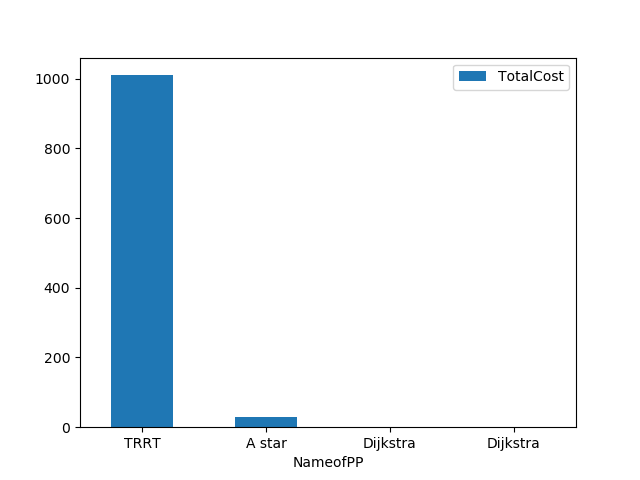
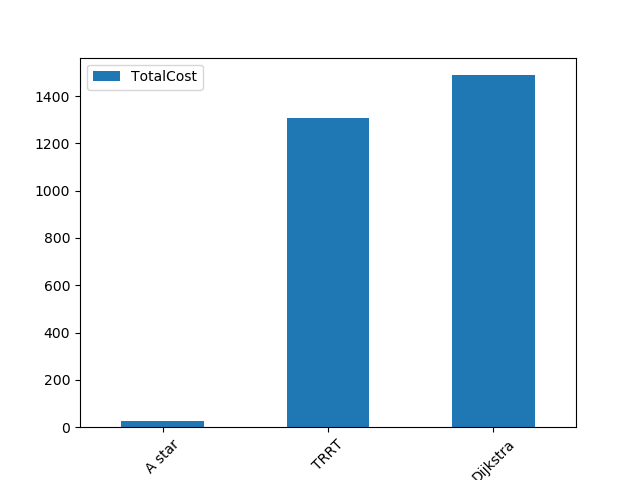
total sim time added for trrt and a* and level timer added for dijkstra

diff --git a/Assets/Scripts/WriteToCSVFile.cs b/Assets/Scripts/WriteToCSVFile.cs
@@ -42,7 +42,7 @@ public class WriteToCSVFile : MonoBehaviour
         if(!File.Exists(filename)) {
             TextWriter tw = new StreamWriter(filename, false);
             // with open("WriteToCSVFile.csv", "a", newline="") as file:
-            tw.WriteLine("NameofPP,TotalTime,TotalCost,TotalNodes");
+            tw.WriteLine("NameofPP,TotalTime,TotalCost,TotalNodes,TotalSimTime");
             tw.Close();
         }
     }
@@ -54,7 +54,7 @@ public class WriteToCSVFile : MonoBehaviour
         //     WriteCSV();
         // }
     }
-    public void WriteCSV(string nameofPP, float totalTime, float totalCost, int totalNodes)
+    public void WriteCSV(string nameofPP, float totalTime, float totalCost, int totalNodes, float totalSimTime)
     {
 
         Debug.Log("obj length" + myWritingtoSSList.obj.Length);
@@ -65,8 +65,9 @@ public class WriteToCSVFile : MonoBehaviour
         myWritingtoSSList.obj[objCount].totalTime=totalTime;
         myWritingtoSSList.obj[objCount].totalCost=totalCost;
         myWritingtoSSList.obj[objCount].totalNodes=totalNodes;
+        myWritingtoSSList.obj[objCount].totalSimTime=totalSimTime;
 
-        tw.WriteLine(myWritingtoSSList.obj[objCount].nameofPP + "," + myWritingtoSSList.obj[objCount].totalTime + ","+ myWritingtoSSList.obj[objCount].totalCost + "," + myWritingtoSSList.obj[objCount].totalNodes);
+        tw.WriteLine(myWritingtoSSList.obj[objCount].nameofPP + "," + myWritingtoSSList.obj[objCount].totalTime + ","+ myWritingtoSSList.obj[objCount].totalCost + "," + myWritingtoSSList.obj[objCount].totalNodes+ "," + myWritingtoSSList.obj[objCount].totalSimTime);
         
         tw.Close();
         

diff --git a/Assets/Scripts/Pathfinding.cs b/Assets/Scripts/Pathfinding.cs
@@ -12,7 +12,8 @@ public class Pathfinding : MonoBehaviour {
     public Transform TargetPosition;//Starting position to pathfind to
     public GameObject csvObject;
     private Text statusText;
-
+    private float endTime;
+    private float startTime;
 
     
     private void Awake()//When the program starts
@@ -25,6 +26,7 @@ public class Pathfinding : MonoBehaviour {
         void Start() 
         {
             FindPath(StartPosition.position, TargetPosition.position);
+            startTime = Time.realtimeSinceStartup;
         }
     
     // private void Update()//Every frame
@@ -61,8 +63,9 @@ public class Pathfinding : MonoBehaviour {
                 GridReference.updateTimer = false;
                 Debug.Log("level timer" + GridReference.levelTimer);
                 Debug.Log("update timer" + GridReference.updateTimer);
+                endTime = (Time.realtimeSinceStartup - startTime);
                 statusText.text = "Solved! with " + GridReference.totalNodes + " nodes, cost=" + GridReference.totalcost;
-                writeToCsv.WriteCSV("A star", GridReference.levelTimer, GridReference.totalcost, GridReference.totalNodes);
+                writeToCsv.WriteCSV("A star", GridReference.levelTimer, GridReference.totalcost, GridReference.totalNodes, endTime);
             }
 
             foreach (Node NeighborNode in GridReference.GetNeighboringNodes(CurrentNode))//Loop through each neighbor of the current node

diff --git a/Assets/Scripts/ShortestPath.cs b/Assets/Scripts/ShortestPath.cs
@@ -10,9 +10,12 @@ public class ShortestPath : MonoBehaviour
     public GameObject csvObject;
     private float endTime;
     private float startTime;
+    public float levelTimer;
+	public bool updateTimer=true;
     private void Awake()//When the program starts
     {
         writeToCsv = csvObject.GetComponent<WriteToCSVFile>();
+        levelTimer=0.0f;
     }
 
     /// <summary>
@@ -45,9 +48,9 @@ public class ShortestPath : MonoBehaviour
         foreach(Transform nd in result) {
             totalCost += nd.GetComponent<DijkstraNode>().getWeight();
         }
-        totalCost *= 0.001f;
-        
-        writeToCsv.WriteCSV("Dijkstra", endTime, totalCost, result.Count);
+        // totalCost *= 0.001f;
+        updateTimer = false;
+        writeToCsv.WriteCSV("Dijkstra", levelTimer, totalCost, result.Count, endTime);
         return result;
     }
 
@@ -116,6 +119,9 @@ public class ShortestPath : MonoBehaviour
                         node.setWeight(distance);
                         node.setParentNode(current);
                     }
+                    if (updateTimer)
+                		levelTimer += Time.deltaTime;
+                		Debug.Log("levelTimer" + levelTimer);
                 }
             }
 

diff --git a/Assets/Scripts/TerrainScript.cs b/Assets/Scripts/TerrainScript.cs
@@ -69,7 +69,8 @@ public class TerrainScript : MonoBehaviour {
 	private const float MIN_TEMPERATURE = 1e-15f;
 	private int numTransitionFails = 0;
 	private const int MAX_TRANSITION_FAILS = 20;
-	
+	private float endTime;  //to get the simulation time
+    private float startTime;
 	private float pGoToGoal = 0.1f;
 	private const int MAX_NUM_NODES = 10000;
     public GameObject[] gameObjects;
@@ -99,6 +100,7 @@ public class TerrainScript : MonoBehaviour {
 		linePrefab = Resources.Load("LinePrefab");
 		pathPrefab = Resources.Load("PathPrefab");	
 		terrainSize = Terrain.activeTerrain.terrainData.size;
+		startTime = Time.realtimeSinceStartup;
 		//minX = -terrainSize.x/2;
 		minX = 2;
 		maxX = terrainSize.x- 2;
@@ -254,8 +256,9 @@ public class TerrainScript : MonoBehaviour {
 		
 		}
 		updateTimer = false;
+		endTime = (Time.realtimeSinceStartup - startTime);
 		statusText.text = "Solved! with " + nodes.Count + " nodes, cost=" + pathCost;
-		writeToCsv.WriteCSV("TRRT", levelTimer, pathCost, nodes.Count);
+		writeToCsv.WriteCSV("TRRT", levelTimer, pathCost, nodes.Count, endTime);
 
 	}
 	

diff --git a/Plots_for_comparison/makeplot.py b/Plots_for_comparison/makeplot.py
@@ -7,12 +7,14 @@ import matplotlib.pyplot as plt
 
 pp=pd.read_csv('/home/aleena/Unity/Hub/projects/A-Star-Pathfinding-Tutorial/Assets/testpp.csv')
 
-ax = pp.plot.bar(x='NameofPP', y='TotalTime', rot=0)
+ax = pp.plot.bar(x='NameofPP', y='TotalTime', rot=45)
 plt.savefig('TotalTime.png')
-ax = pp.plot.bar(x='NameofPP', y='TotalCost', rot=0)
+ax = pp.plot.bar(x='NameofPP', y='TotalCost', rot=45)
 plt.savefig('TotalCost.png')
-ax = pp.plot.bar(x='NameofPP', y='TotalNodes', rot=0)
+ax = pp.plot.bar(x='NameofPP', y='TotalNodes', rot=45)
 plt.savefig('TotalNodes.png')
+ax = pp.plot.bar(x='NameofPP', y='TotalSimTime', rot=45)
+plt.savefig('TotalTime.png')
 plt.show()
 
 
